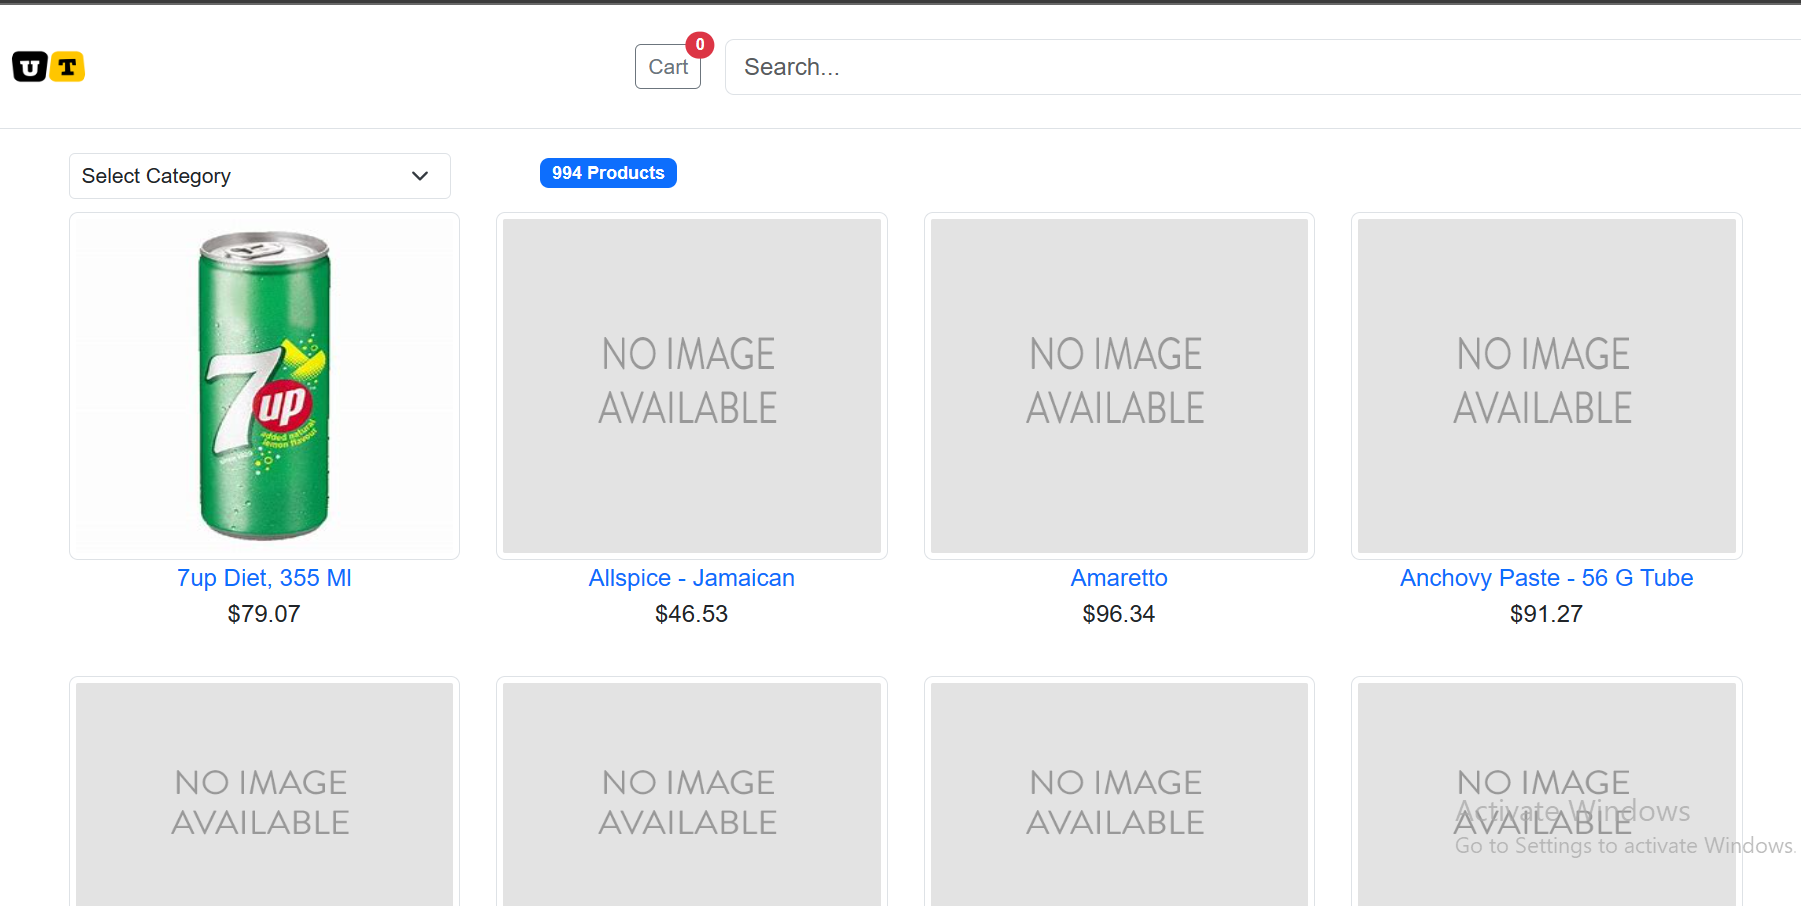
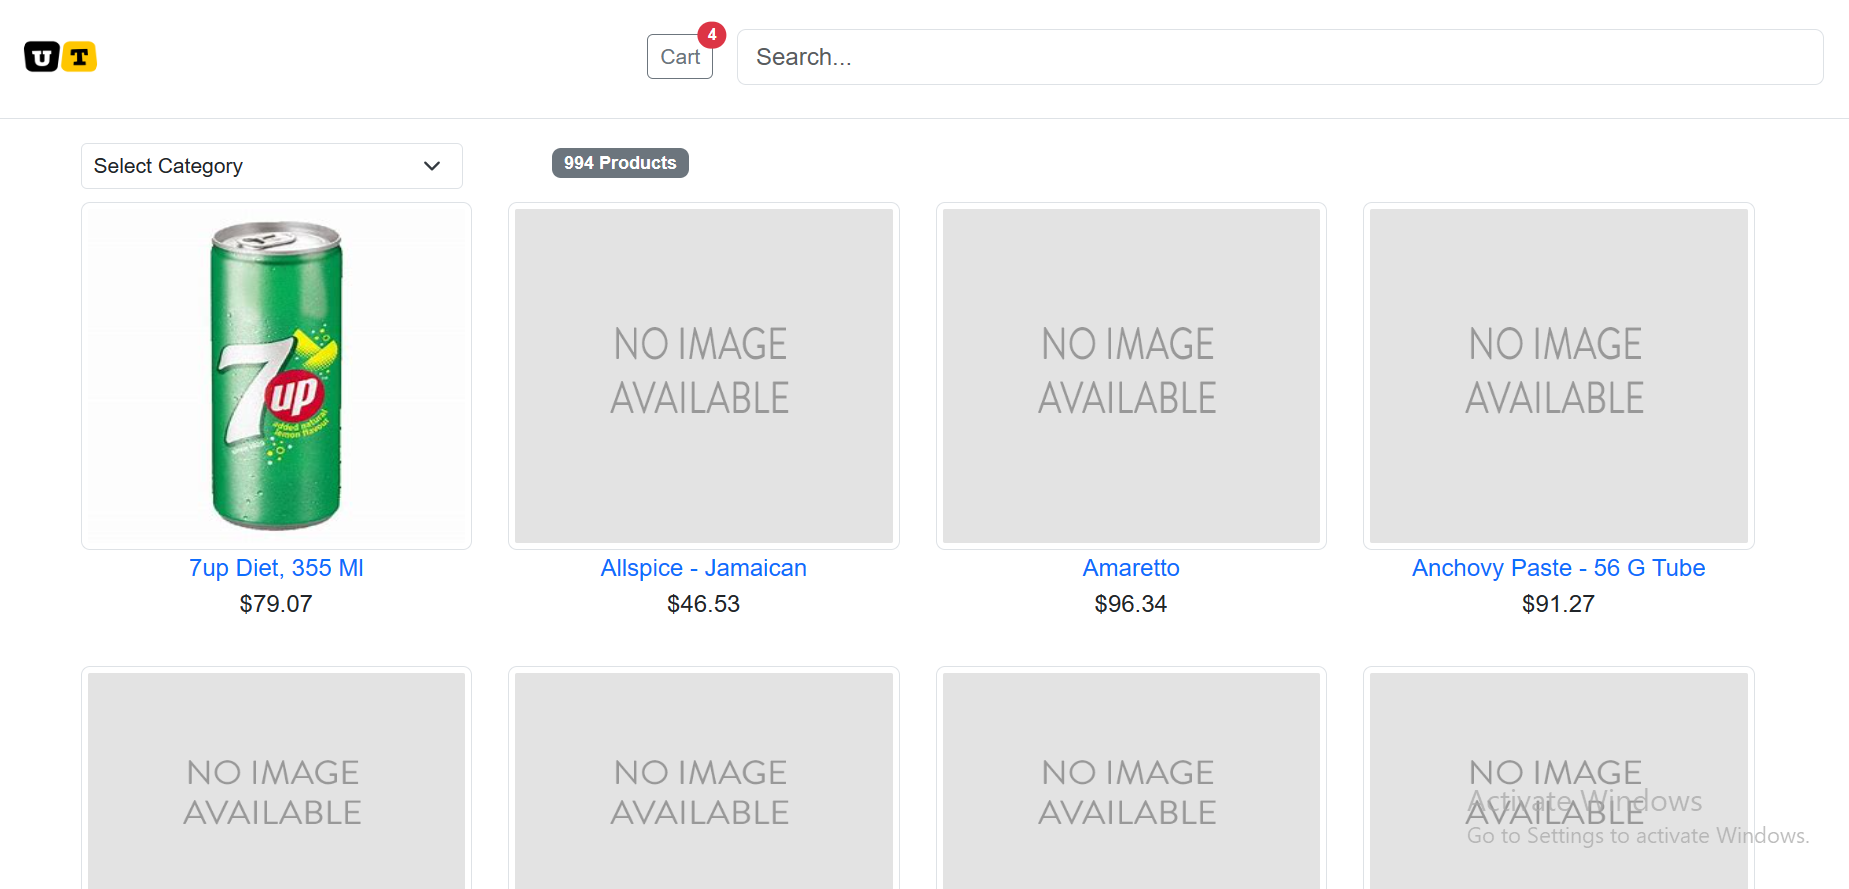
uppdating list page

diff --git a/templates/store/product/list.html b/templates/store/product/list.html
@@ -19,7 +19,7 @@
                     </select>
                 </div>
                 <div class="col-4 col-lg-2">
-                    <div class="badge bg-primary mb-3">{{count}} {% if collection %} {{ collection.title }} {% endif %} Products</div>
+                    <div class="badge bg-secondary mb-3">{{count}} {% if collection %} {{ collection.title }} {% endif %} Products</div>
                     
                 </div>
 
